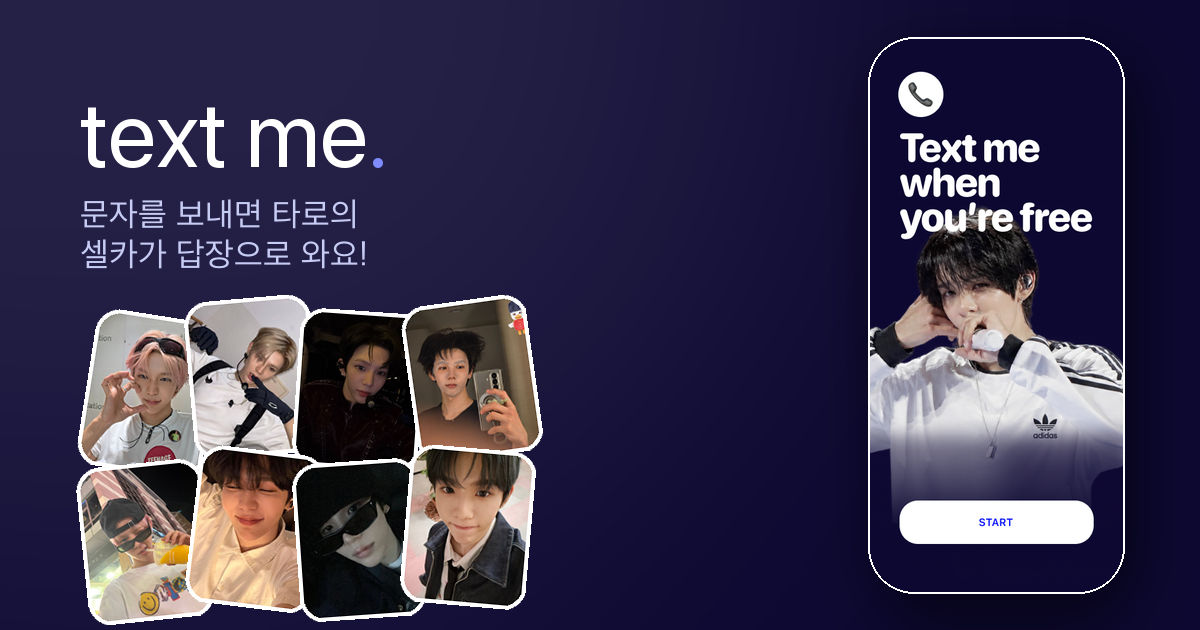
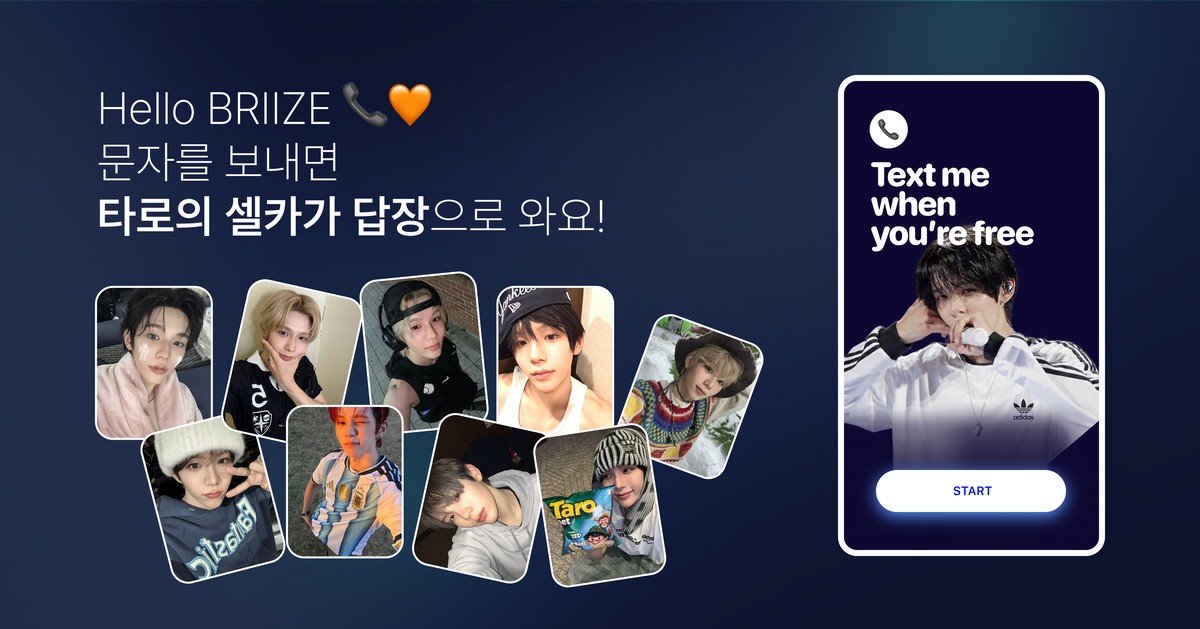
mainbg2 풀필·모바일 유튜브 재생수정·도감 흰색·키보드 헤더고정(visualViewport)·답장 즉시로드·스크롤 안정화·새 OG

diff --git a/css/style.css b/css/style.css
@@ -38,26 +38,24 @@ html, body {
   overscroll-behavior: none;
 }
 body {
-  background: #05030f;               /* dark page behind the phone frame on desktop */
+  background: #ffffff;               /* gaps are white (matches the input field) */
   color: var(--ink);
   -webkit-font-smoothing: antialiased;
   user-select: none;
   overflow: hidden;
-  display: flex; align-items: center; justify-content: center;
-  min-height: 100dvh;
 }
-/* The whole app is locked to the mainbg aspect ratio (414:896 = 9:19.5), fitted
-   inside the viewport. So the main image is never cropped and never letterboxed
-   on modern phones (which are ~this ratio); on desktop it's a centered phone. */
+/* Fill the device viewport (optimized to the phone's own resolution). The main
+   image covers the screen (person may crop — accepted trade-off). Height tracks
+   the visual viewport (JS) so the keyboard pushes only the composer up, not the
+   whole screen (iMessage-like). */
 #app {
-  width: min(100vw, calc(100dvh * 414 / 896), 430px);
-  aspect-ratio: 414 / 896;
-  position: relative;
+  position: fixed; top: 0; left: 50%; transform: translateX(-50%);
+  width: min(100vw, 430px);
+  height: 100dvh;
   overflow: hidden;
   background: var(--bg);
-  box-shadow: 0 0 60px rgba(0, 0, 0, 0.5);
+  box-shadow: 0 0 60px rgba(0, 0, 0, 0.35);
 }
-@media (min-width: 460px) { #app { border-radius: 30px; } }
 
 .screen { position: absolute; inset: 0; display: none; flex-direction: column; }
 .screen.active { display: flex; }
@@ -69,12 +67,12 @@ body {
 }
 /* Fill the screen with the mainbg — no letterbox bars (use the image as-is). */
 #splash .main-wrap { position: absolute; inset: 0; }
-#splash .main-bg { position: absolute; inset: 0; width: 100%; height: 100%; object-fit: cover; object-position: center; }
+#splash .main-bg { position: absolute; inset: 0; width: 100%; height: 100%; object-fit: cover; object-position: center top; }
 /* START button: centered, width 75.8%, bottom edge 8.8% up, 314:70 — from main.png.
    Neon blue glow around the pill (drop-shadow hugs the pill shape). */
 #splash .start-btn {
   position: absolute; left: 50%; transform: translateX(-50%);
-  bottom: 8.8%; width: 75.8%; max-width: 340px; aspect-ratio: 314 / 70;
+  bottom: 6.5%; width: 72%; max-width: 330px; aspect-ratio: 314 / 70;
   border: 0; cursor: pointer; padding: 0; font-size: 0;
   background: url("../assets/button1.png") center / 100% 100% no-repeat;
   filter: drop-shadow(0 0 7px rgba(64,120,255,0.75)) drop-shadow(0 0 16px rgba(64,120,255,0.45));
@@ -94,7 +92,7 @@ body {
   color: rgba(255, 255, 255, 0.45);
 }
 #splash .credit { right: 14px; bottom: calc(2.6% + var(--safe-b)); }
-.dex-credit { right: 16px; bottom: calc(9px + var(--safe-b)); }
+.dex-credit { right: 16px; bottom: calc(9px + var(--safe-b)); color: rgba(0,0,0,0.35); }
 
 /* completion: just confetti + this text, no popup card */
 #congrats {
@@ -134,6 +132,7 @@ body {
 /* ------------------------------------------------------ Chat */
 #chat { background: var(--bg); }
 .nav {
+  flex: 0 0 auto;                      /* fixed header — never scrolls/shrinks */
   padding-top: calc(var(--safe-t) + 8px);
   padding-bottom: 8px;
   display: grid; grid-template-columns: 44px 1fr 44px; align-items: center;
@@ -164,7 +163,7 @@ body {
 }
 .nav .dex-badge[hidden] { display: none; }  /* class rule overrode [hidden]'s default */
 
-.messages { flex: 1; overflow-y: auto; padding: 10px 12px 6px; -webkit-overflow-scrolling: touch; }
+.messages { flex: 1; min-height: 0; overflow-y: auto; padding: 10px 12px 6px; -webkit-overflow-scrolling: touch; overscroll-behavior: contain; }
 .date-sep { text-align: center; font-size: 11px; color: var(--gray-text); font-weight: 600; margin: 14px 0 8px; }
 .date-sep .time { font-weight: 400; }
 
@@ -237,6 +236,7 @@ body {
 @keyframes tb { 0%,60%,100%{transform:translateY(0);opacity:.5} 30%{transform:translateY(-4px);opacity:1} }
 
 .composer {
+  flex: 0 0 auto;                     /* fixed above the keyboard */
   display: flex; align-items: flex-end; gap: 8px; padding: 8px 10px;
   padding-bottom: calc(8px + var(--safe-b));
   border-top: 0.5px solid var(--hairline);
@@ -290,18 +290,18 @@ body {
 /* ------------------------------------------------------ Dex */
 #dex {
   position: absolute; inset: 0; z-index: 40; display: none; flex-direction: column;
-  background: radial-gradient(150% 90% at 50% 0%, var(--navy-3), var(--navy) 68%);
-  color: #fff;
+  background: #ffffff;
+  color: #111;
 }
 #dex.active { display: flex; }
 .dex-nav {
   padding-top: calc(var(--safe-t) + 10px); padding-bottom: 12px; padding-left: 16px; padding-right: 16px;
   display: flex; align-items: center; justify-content: space-between;
-  border-bottom: 1px solid rgba(255,255,255,0.08);
+  border-bottom: 1px solid rgba(0,0,0,0.08);
 }
-.dex-nav .title { font-size: 18px; font-weight: 800; }
-.dex-nav .title small { display: block; font-size: 12px; font-weight: 500; color: var(--ink-soft); margin-top: 2px; }
-.dex-nav button { background: none; border: 0; color: var(--blue-accent); font-size: 16px; font-weight: 600; cursor: pointer; }
+.dex-nav .title { font-size: 18px; font-weight: 800; color: #111; }
+.dex-nav .title small { display: block; font-size: 12px; font-weight: 500; color: #8a8f9c; margin-top: 2px; }
+.dex-nav button { background: none; border: 0; color: var(--imsg-blue); font-size: 16px; font-weight: 600; cursor: pointer; }
 .dex-nav-right { display: flex; align-items: center; gap: 12px; }
 .dex-nav .dex-share {
   background: linear-gradient(180deg, #5b86ff, #3a6bff); color: #fff;
@@ -312,9 +312,9 @@ body {
 .dex-nav .dex-share::before { content: "𝕏"; font-weight: 800; }
 .dex-nav .dex-share:active { transform: scale(0.96); }
 .dex-progress { padding: 12px 16px 4px; }
-.dex-progress .bar { height: 8px; border-radius: 999px; background: rgba(255,255,255,0.12); overflow: hidden; }
+.dex-progress .bar { height: 8px; border-radius: 999px; background: rgba(0,0,0,0.08); overflow: hidden; }
 .dex-progress .fill { height: 100%; background: linear-gradient(90deg, #4f7bff, #a879ff); border-radius: 999px; transition: width .5s ease; }
-.dex-progress .label { font-size: 12px; color: var(--ink-soft); margin-top: 6px; display: flex; justify-content: space-between; }
+.dex-progress .label { font-size: 12px; color: #8a8f9c; margin-top: 6px; display: flex; justify-content: space-between; }
 
 .dex-grid {
   flex: 1; overflow-y: auto; display: grid;
@@ -322,21 +322,21 @@ body {
   /* fixed 2:3 row height derived from column width (JS refines this at runtime) */
   grid-auto-rows: calc((min(100vw, 430px) - 48px) / 3 * 1.5);
   gap: 8px; padding: 12px 16px calc(24px + var(--safe-b));
-  scrollbar-width: thin;                       /* Firefox: subtle, mood-matching */
-  scrollbar-color: rgba(255,255,255,0.16) transparent;
+  scrollbar-width: thin;                       /* Firefox: subtle */
+  scrollbar-color: rgba(0,0,0,0.16) transparent;
 }
 .dex-grid::-webkit-scrollbar { width: 5px; }
 .dex-grid::-webkit-scrollbar-track { background: transparent; }
-.dex-grid::-webkit-scrollbar-thumb { background: rgba(255,255,255,0.14); border-radius: 999px; }
-.dex-grid::-webkit-scrollbar-thumb:hover { background: rgba(255,255,255,0.26); }
+.dex-grid::-webkit-scrollbar-thumb { background: rgba(0,0,0,0.14); border-radius: 999px; }
+.dex-grid::-webkit-scrollbar-thumb:hover { background: rgba(0,0,0,0.26); }
 .cell {
   border-radius: 12px; overflow: hidden; position: relative;
-  background: rgba(255,255,255,0.05); border: 1px solid rgba(255,255,255,0.08);
+  background: #f0f1f4; border: 1px solid rgba(0,0,0,0.06);
 }
 .cell > * { position: absolute; }
-.cell.locked .q { inset: 0; display: flex; align-items: center; justify-content: center; color: rgba(255,255,255,0.25); font-size: 22px; }
-.cell.locked .num { top: 6px; left: 8px; font-size: 10px; color: rgba(255,255,255,0.3); }
-.cell.unlocked { cursor: pointer; border-color: rgba(111,140,255,0.4); }
+.cell.locked .q { inset: 0; display: flex; align-items: center; justify-content: center; color: rgba(0,0,0,0.18); font-size: 22px; }
+.cell.locked .num { top: 6px; left: 8px; font-size: 10px; color: rgba(0,0,0,0.25); }
+.cell.unlocked { cursor: pointer; border-color: rgba(111,140,255,0.35); }
 .cell.unlocked img { inset: 0; width: 100%; height: 100%; object-fit: cover; }
 .cell .kw {
   left: 0; right: 0; bottom: 0; padding: 12px 6px 5px;

diff --git a/js/app.js b/js/app.js
@@ -152,24 +152,21 @@
     thumb.innerHTML = "<span class='yt-play'></span><span class='yt-badge'>▶ YouTube</span>";
     wrap.appendChild(thumb);
 
-    function plainFallback(stage) {
-      var f = document.createElement("iframe");
-      f.src = "https://www.youtube.com/embed/" + videoId +
-        "?autoplay=1&playsinline=1&rel=0&vq=hd1080&hd=1";
-      f.setAttribute("frameborder", "0");
-      f.allow = "autoplay; encrypted-media; picture-in-picture; web-share; fullscreen";
-      f.allowFullscreen = true;
-      stage.appendChild(f);
-    }
-
     wrap.addEventListener("click", function () {
-      wrap.classList.add("playing");           // expand to full chat width → HD
+      wrap.classList.add("playing");
       var stage = document.createElement("div");
       stage.className = "yt-stage";
-      var mount = document.createElement("div");
-      stage.appendChild(mount);
-      // tap-to-hide-UI: a veil over the video (but NOT the bottom control bar).
-      // Start with UI shown; tapping the video area toggles the clean (UI-hidden) mode.
+      // Create the iframe SYNCHRONOUSLY inside the tap gesture — required for
+      // mobile (iOS/Android) to allow autoplay with sound. (The async IFrame API
+      // loses the gesture and won't start on phones.)
+      var f = document.createElement("iframe");
+      f.src = "https://www.youtube.com/embed/" + videoId +
+        "?autoplay=1&playsinline=1&rel=0&modestbranding=1";
+      f.setAttribute("frameborder", "0");
+      f.setAttribute("allowfullscreen", "");
+      f.allow = "autoplay; encrypted-media; picture-in-picture; web-share; fullscreen";
+      stage.appendChild(f);
+      // tap-to-hide-UI: veil over the video (not the bottom control bar)
       var veil = document.createElement("div");
       veil.className = "yt-veil";
       veil.addEventListener("click", function () { stage.classList.toggle("clean"); });
@@ -177,18 +174,6 @@
       wrap.innerHTML = "";
       wrap.appendChild(stage);
       scrollBottomIfPinned();
-
-      loadYT().then(function (YT) {
-        var forceHD = function (p) { try { p.setPlaybackQuality("hd1080"); } catch (e) {} };
-        new YT.Player(mount, {
-          width: "100%", height: "100%", videoId: videoId,
-          playerVars: { autoplay: 1, playsinline: 1, rel: 0, modestbranding: 1 },
-          events: {
-            onReady: function (e) { forceHD(e.target); try { e.target.playVideo(); } catch (x) {} },
-            onPlaybackQualityChange: function (e) { forceHD(e.target); },
-          },
-        });
-      }).catch(function () { plainFallback(stage); });
     }, { once: true });
     return wrap;
   }
@@ -233,7 +218,8 @@
         var wrap = document.createElement("div");
         wrap.className = "bubble in img";
         var rimg = makeImg(entry);
-        rimg.addEventListener("load", scrollBottomIfPinned); // pin to newest only if already near bottom
+        rimg.loading = "eager";   // reply photo must load even below the fold (else it never appears)
+        rimg.addEventListener("load", scrollBottomIfPinned);
         wrap.appendChild(rimg);
         if (msg.first) {                              // first-discovery → small NEW badge
           var nb = document.createElement("span");
@@ -555,13 +541,29 @@
       save();
     }
     render();
-    inputEl.focus();
+    // no auto-focus — don't pop the keyboard on entry (avoids the layout jump)
   });
   $("openDex").addEventListener("click", openDex);
   $("closeDex").addEventListener("click", closeDex);
   $("dexShare").addEventListener("click", shareDex);
   $("viewerClose").addEventListener("click", closeViewer);
   overlay.addEventListener("click", function (e) { if (e.target === overlay) closeOverlay(); });
+
+  // ---- keyboard: keep the app fitted to the VISUAL viewport so the header
+  // stays put and only the composer rides up with the keyboard (iMessage-like) ----
+  (function keyboardFit() {
+    var vv = window.visualViewport;
+    var app = $("app");
+    if (!vv || !app) return;
+    function fit() {
+      app.style.height = vv.height + "px";
+      app.style.transform = "translateX(-50%) translateY(" + vv.offsetTop + "px)";
+      if (screens.chat.classList.contains("active") && pinned) scrollBottom();
+    }
+    vv.addEventListener("resize", fit);
+    vv.addEventListener("scroll", fit);
+    fit();
+  })();
 
   // ---- contact profile photo (nav avatar) ----
   (function setAvatar() {

diff --git a/index.html b/index.html
@@ -28,7 +28,7 @@
     <!-- ============ SPLASH ============ -->
     <section id="splash" class="screen active">
       <div class="main-wrap">
-        <img class="main-bg" src="assets/mainbg1.png" alt="text me" />
+        <img class="main-bg" src="assets/mainbg2.png" alt="text me" />
         <button class="start-btn" id="startBtn" aria-label="Start"></button>
         <div class="credit">@fitohec</div>
       </div>
